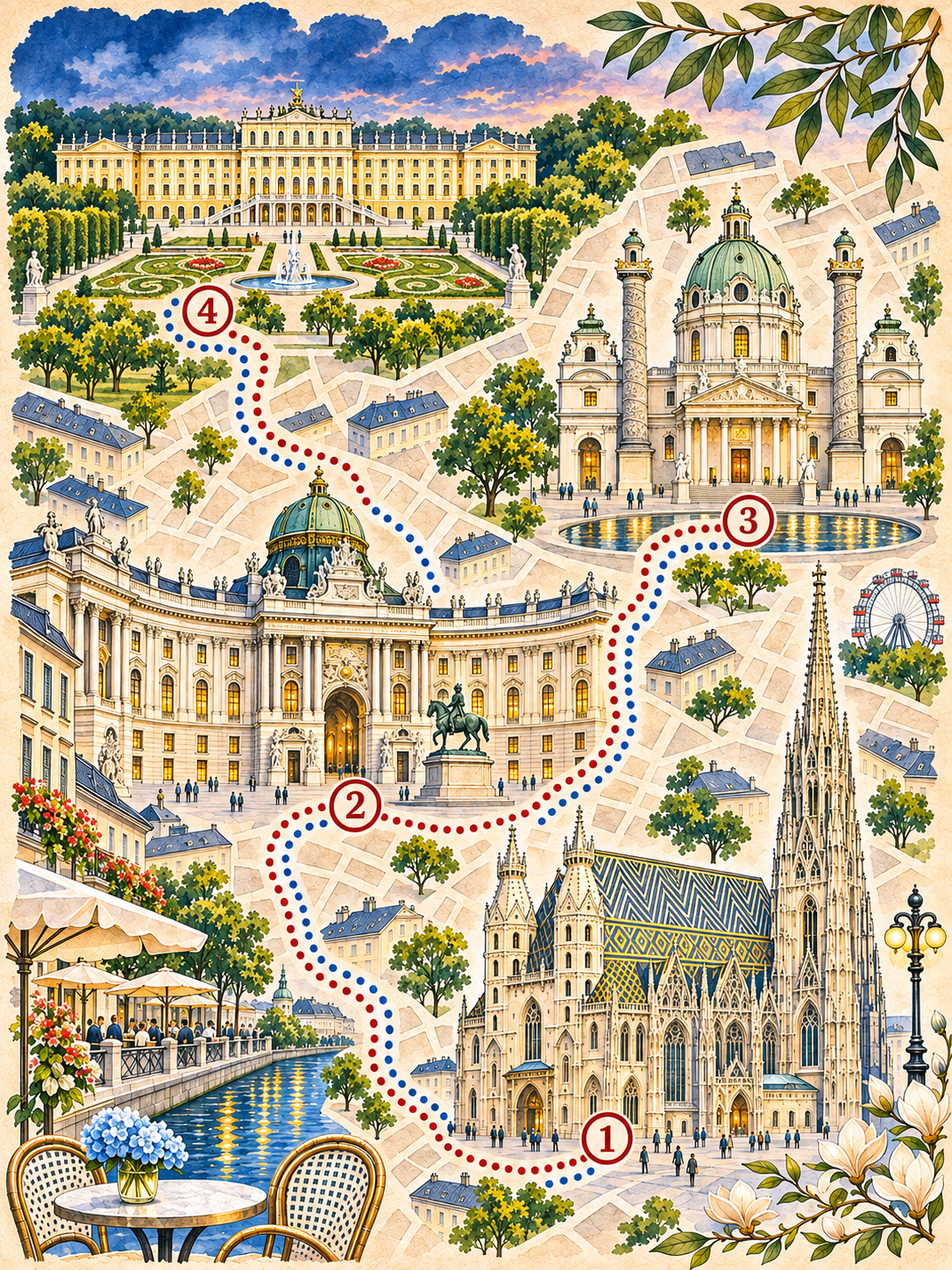
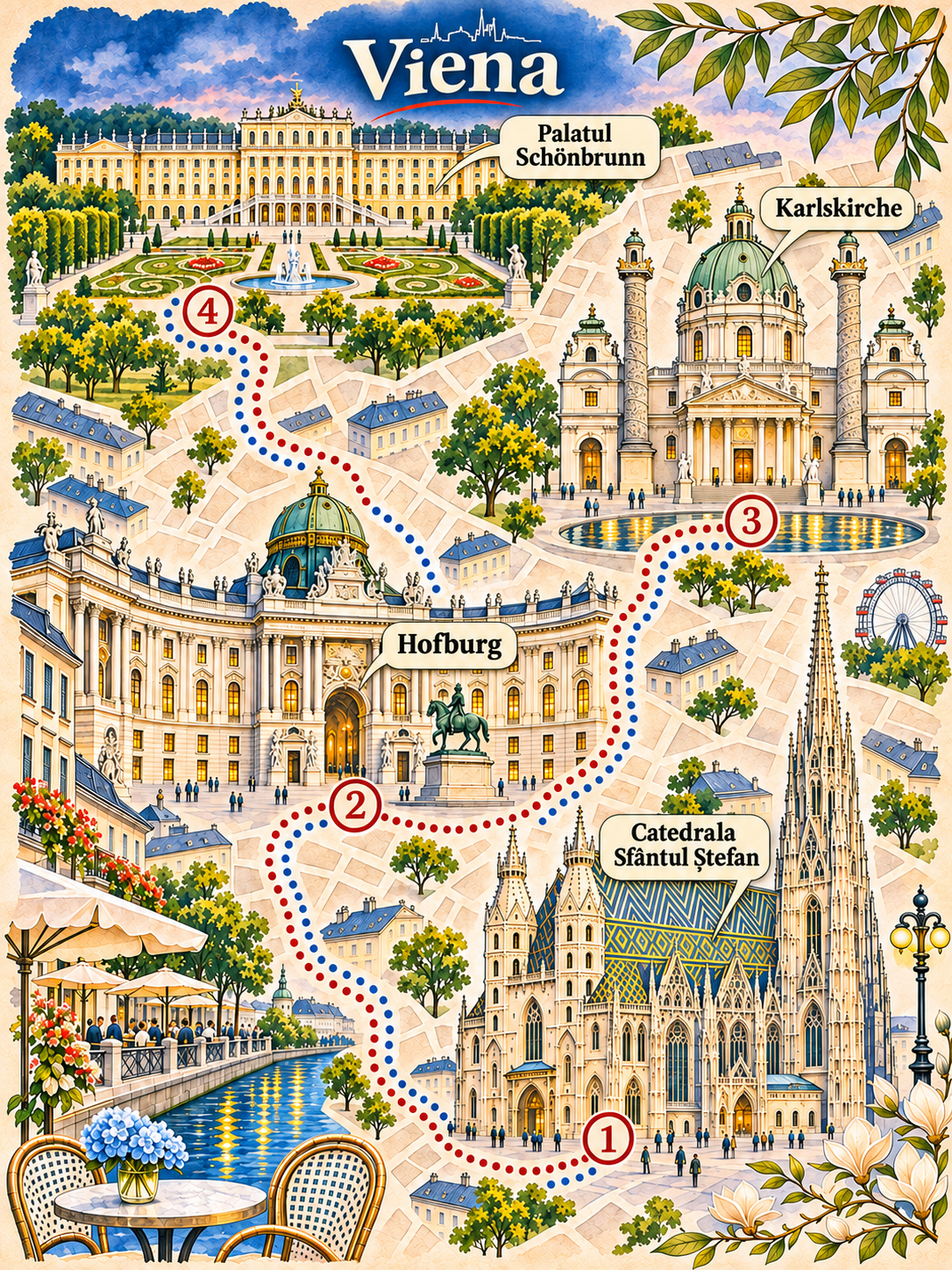
Label Vienna guide map

diff --git a/ILUSTRATII.md b/ILUSTRATII.md
@@ -15,9 +15,10 @@ Se adaugă numele obiectivelor direct pe hărțile existente, în stilul aprobat
 - Atena
 - Veneția
 - Amsterdam
+- Viena
 
 Harta originală pentru Praga avea deja etichete. Celelalte orașe din `assets/guides-prague-style/` necesită în continuare verificare și prelucrare. Actualizează această listă în același commit cu fiecare lot nou.
 
-Ilustrațiile fără etichete sunt păstrate în istoricul Git: pentru Roma și Barcelona folosește fișierul de la commitul `14f016a`, iar pentru Paris, Londra, Lisabona, Berlin și Bruxelles de la `508e691`. Pentru Budapesta, Atena și Veneția se pot folosi originalele de la `48efdd5`. Copii locale sunt în `/workspace/guide-batch/original-illustrations` când acel director este disponibil. Păstrează imaginile originale pentru quiz.
+Ilustrațiile fără etichete sunt păstrate în istoricul Git: pentru Roma și Barcelona folosește fișierul de la commitul `14f016a`, iar pentru Paris, Londra, Lisabona, Berlin și Bruxelles de la `508e691`. Pentru Budapesta, Atena, Veneția, Amsterdam și Viena se pot folosi originalele de la `48efdd5`. Copii locale sunt în `/workspace/guide-batch/original-illustrations` când acel director este disponibil. Păstrează imaginile originale pentru quiz.
 
 Nu modifica funcționalitatea de căutare a zborurilor în cadrul acestei activități.
